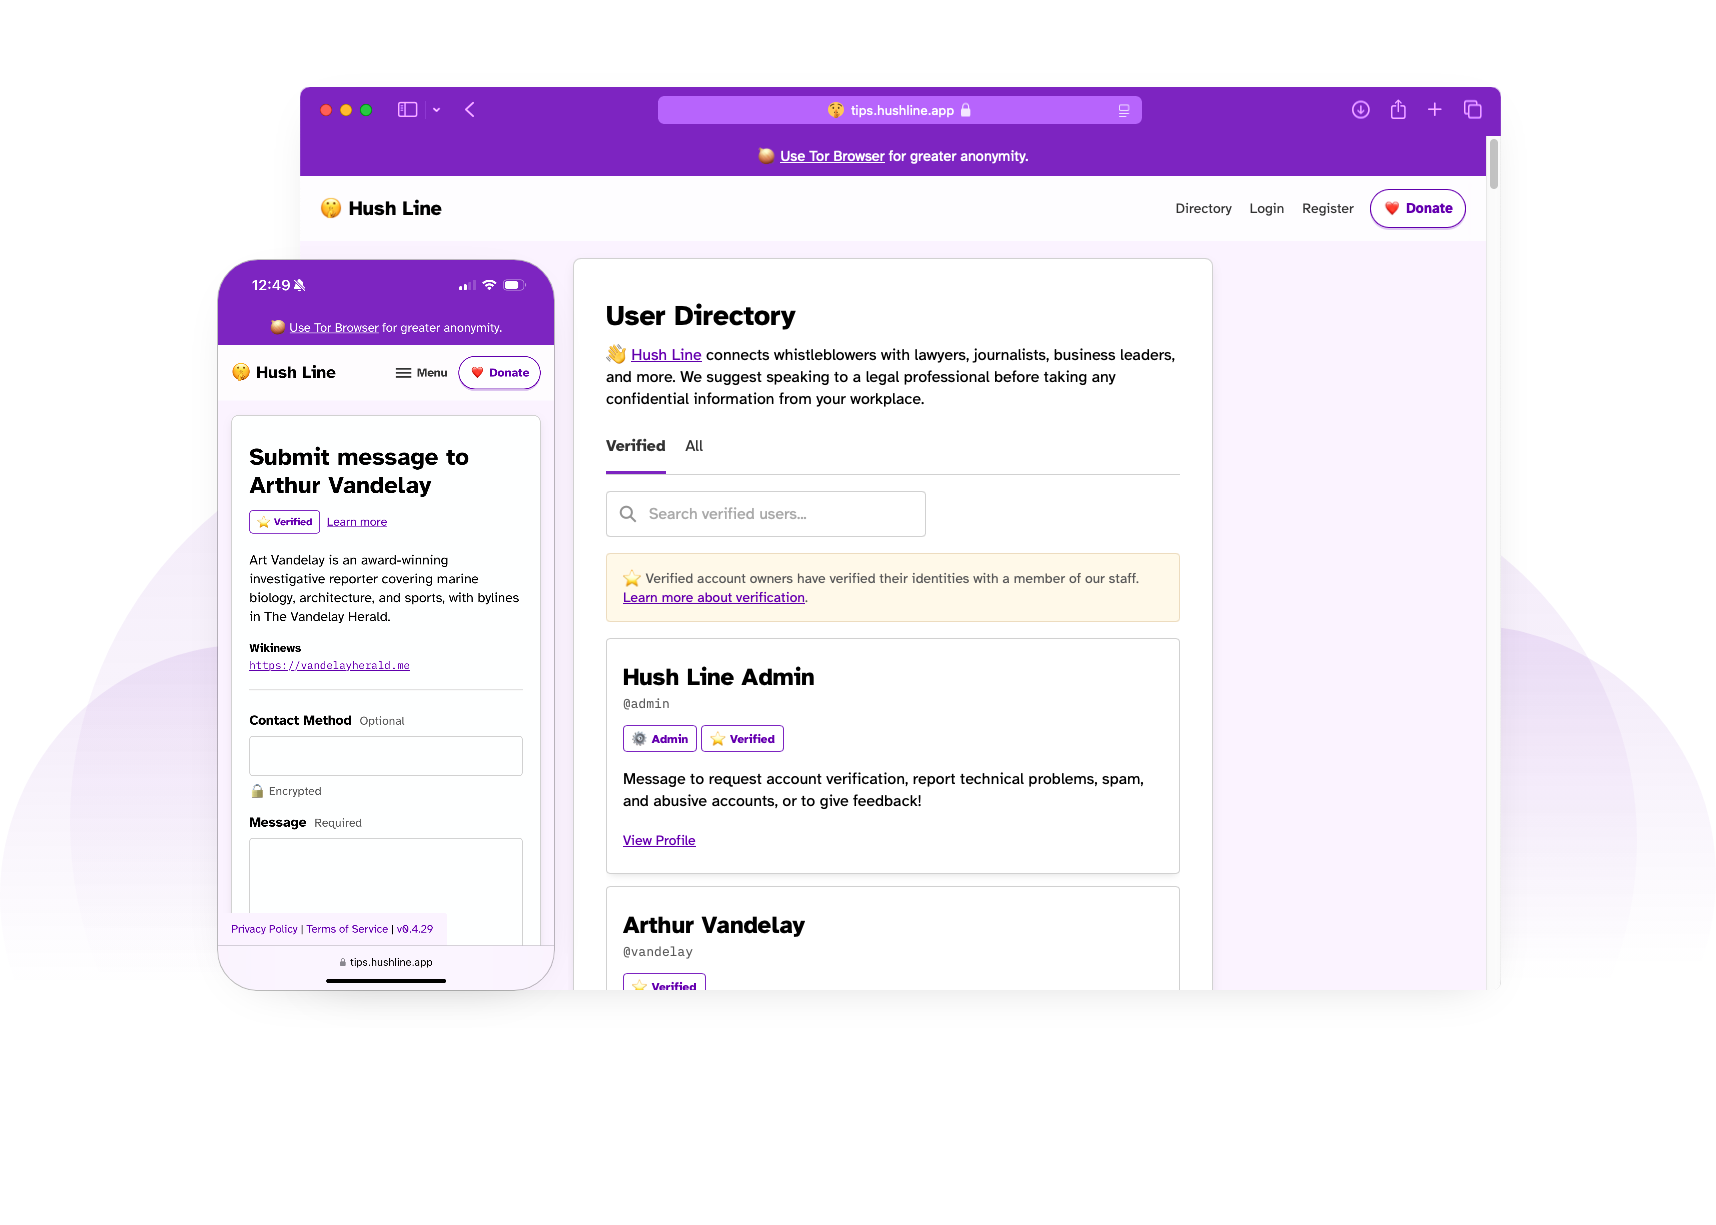
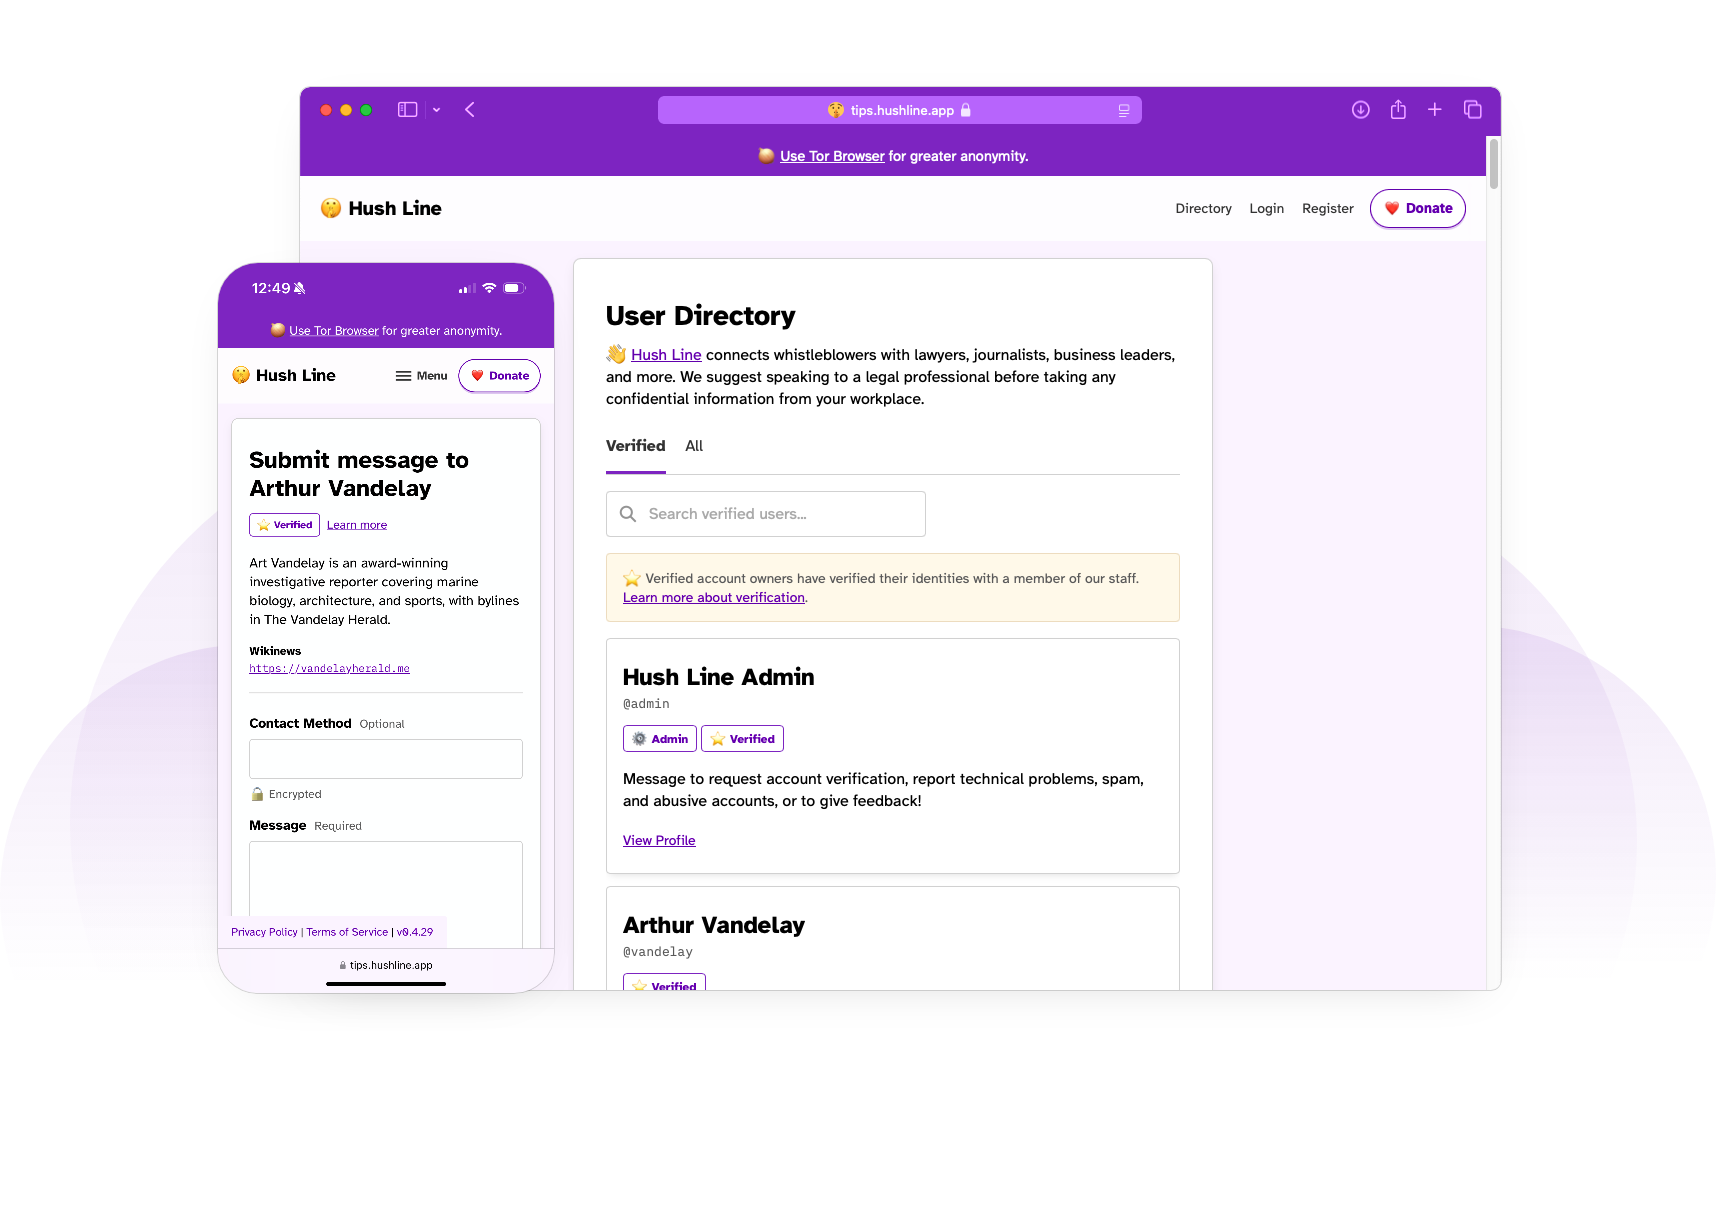
update cover image

diff --git a/src/index.html b/src/index.html
@@ -65,7 +65,7 @@
                     <a href="https://tips.hushline.app/register" class="btn btnLrg primaryBtn" rel="noopener noreferrer" target="_blank">Register a Tip Line</a>
                     <a href="https://tips.hushline.app/directory" class="btn btnLrg" rel="noopener noreferrer" target="_blank">Directory</a>
                 </div>
-                <img src="assets/img/family.webp" alt="Hush Line Product Suite">
+                <img src="assets/img/cover.png" alt="Hush Line Product Suite">
             </div>
             <div class="logo-ticker">
                 <div class="logo-track">
